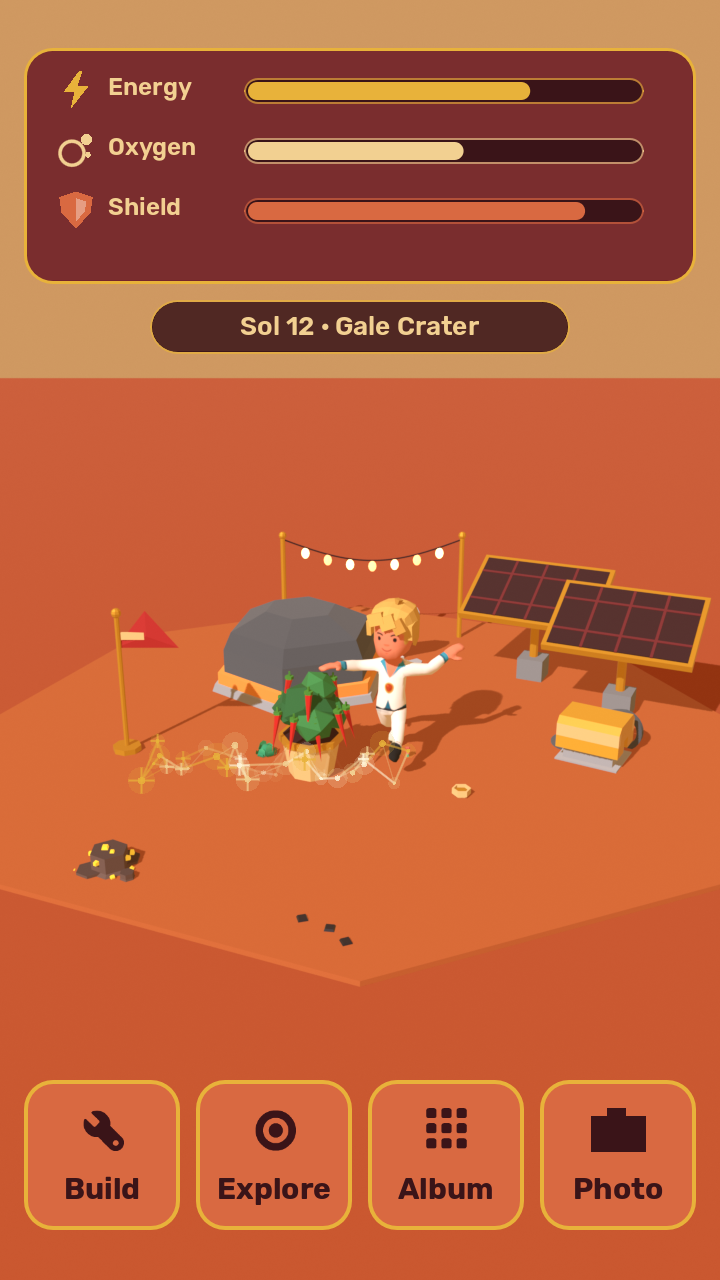
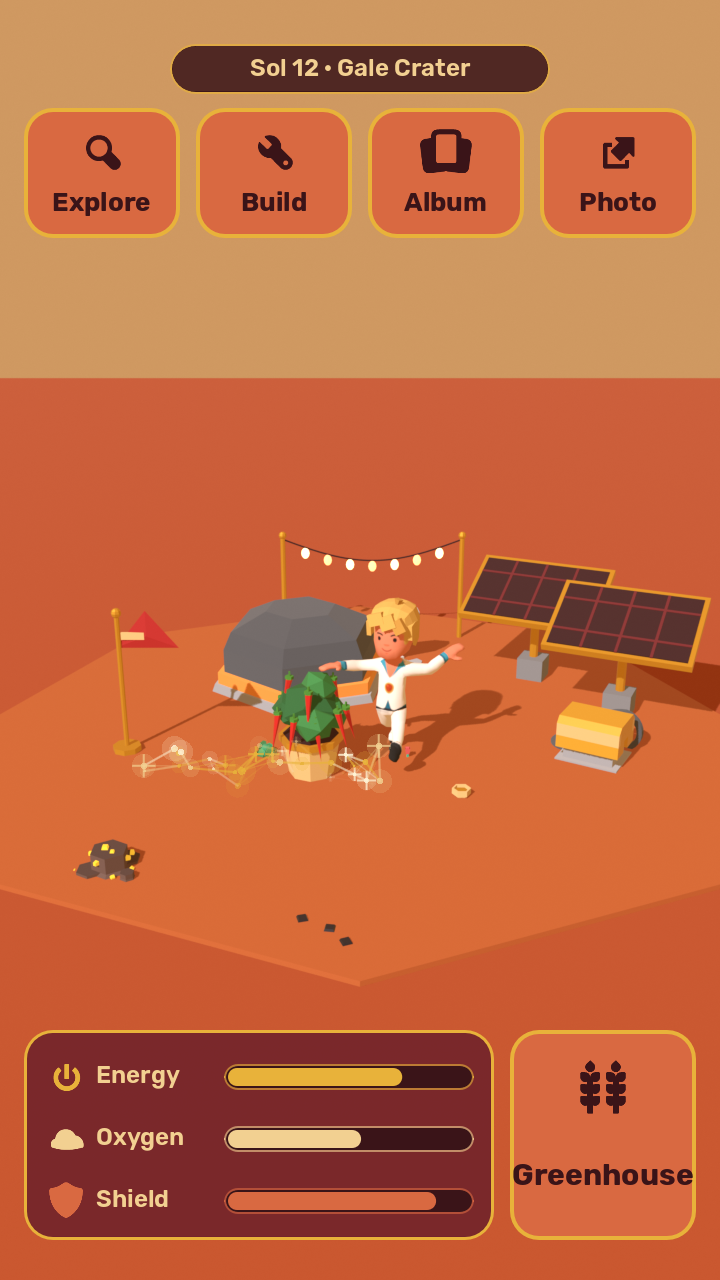
Design 07: ícones dos botões + HUD com ações em cima e barras embaixo

diff --git a/design/05-telas/telas.md b/design/05-telas/telas.md
@@ -2,7 +2,7 @@
 - Link: sem Figma; as telas são feitas direto no Godot (arquivos nesta pasta)
 - tela-carregamento.png (extra): Marte 3D girando, a nave branca e dourada é a barra de progresso e deixa um rastro de constelação dourado
 - tela-inicial.png: título, o Mike correndo com o rastro de constelação, o horizonte de Marte e o botão Play
-- hud-barras.png: a base 3D, as 3 barras (Energy dourada, Oxygen creme, Shield terracota), "Sol 12 · Gale Crater" e 4 botões (Build, Explore, Album, Photo); o Mike deixa o rastro ao correr
+- hud-barras.png: a base 3D no meio; EM CIMA o "Sol 12 · Gale Crater" e as 4 ações (Explore, Build, Album, Photo); EMBAIXO as 3 barras (Energy dourada, Oxygen creme, Shield terracota) e o botão Greenhouse. Separado assim para a criança não ver tudo junto. Ícones do passo 07.
 - album.png: "8/40 cards" e a grade de cartas com borda na cor da raridade; as que faltam ficam apagadas com "?"; o resto rola para baixo
 - carta.png: "New card!", foto da NASA, etiqueta Rare, MOXIE, "This is real:" e o fato, com o rastro em volta da carta
 - aviso-tempestade.png: sol, "Solar storm coming!", a data real do DONKI (20/05/2024) e 2 botões grandes: escudo ou ficar dentro

diff --git a/TAREFAS.md b/TAREFAS.md
@@ -14,7 +14,7 @@
 - [x] 14h30 · [As cores das coisas](design/04-cores-das-coisas/PASSO.md)
 - [x] 17h · [As telas](design/05-telas/PASSO.md)
 - [ ] 18h · [Logo e ícone](design/06-logo-e-icone/PASSO.md)
-- [ ] 19h · [Ícones dos botões](design/07-icones-dos-botoes/PASSO.md)
+- [x] 19h · [Ícones dos botões](design/07-icones-dos-botoes/PASSO.md)
 - [ ] 19h30 · [Teste no celular](design/08-teste-no-celular/PASSO.md)
 - [ ] 20h · [Entrega](design/09-entrega/PASSO.md)
 
